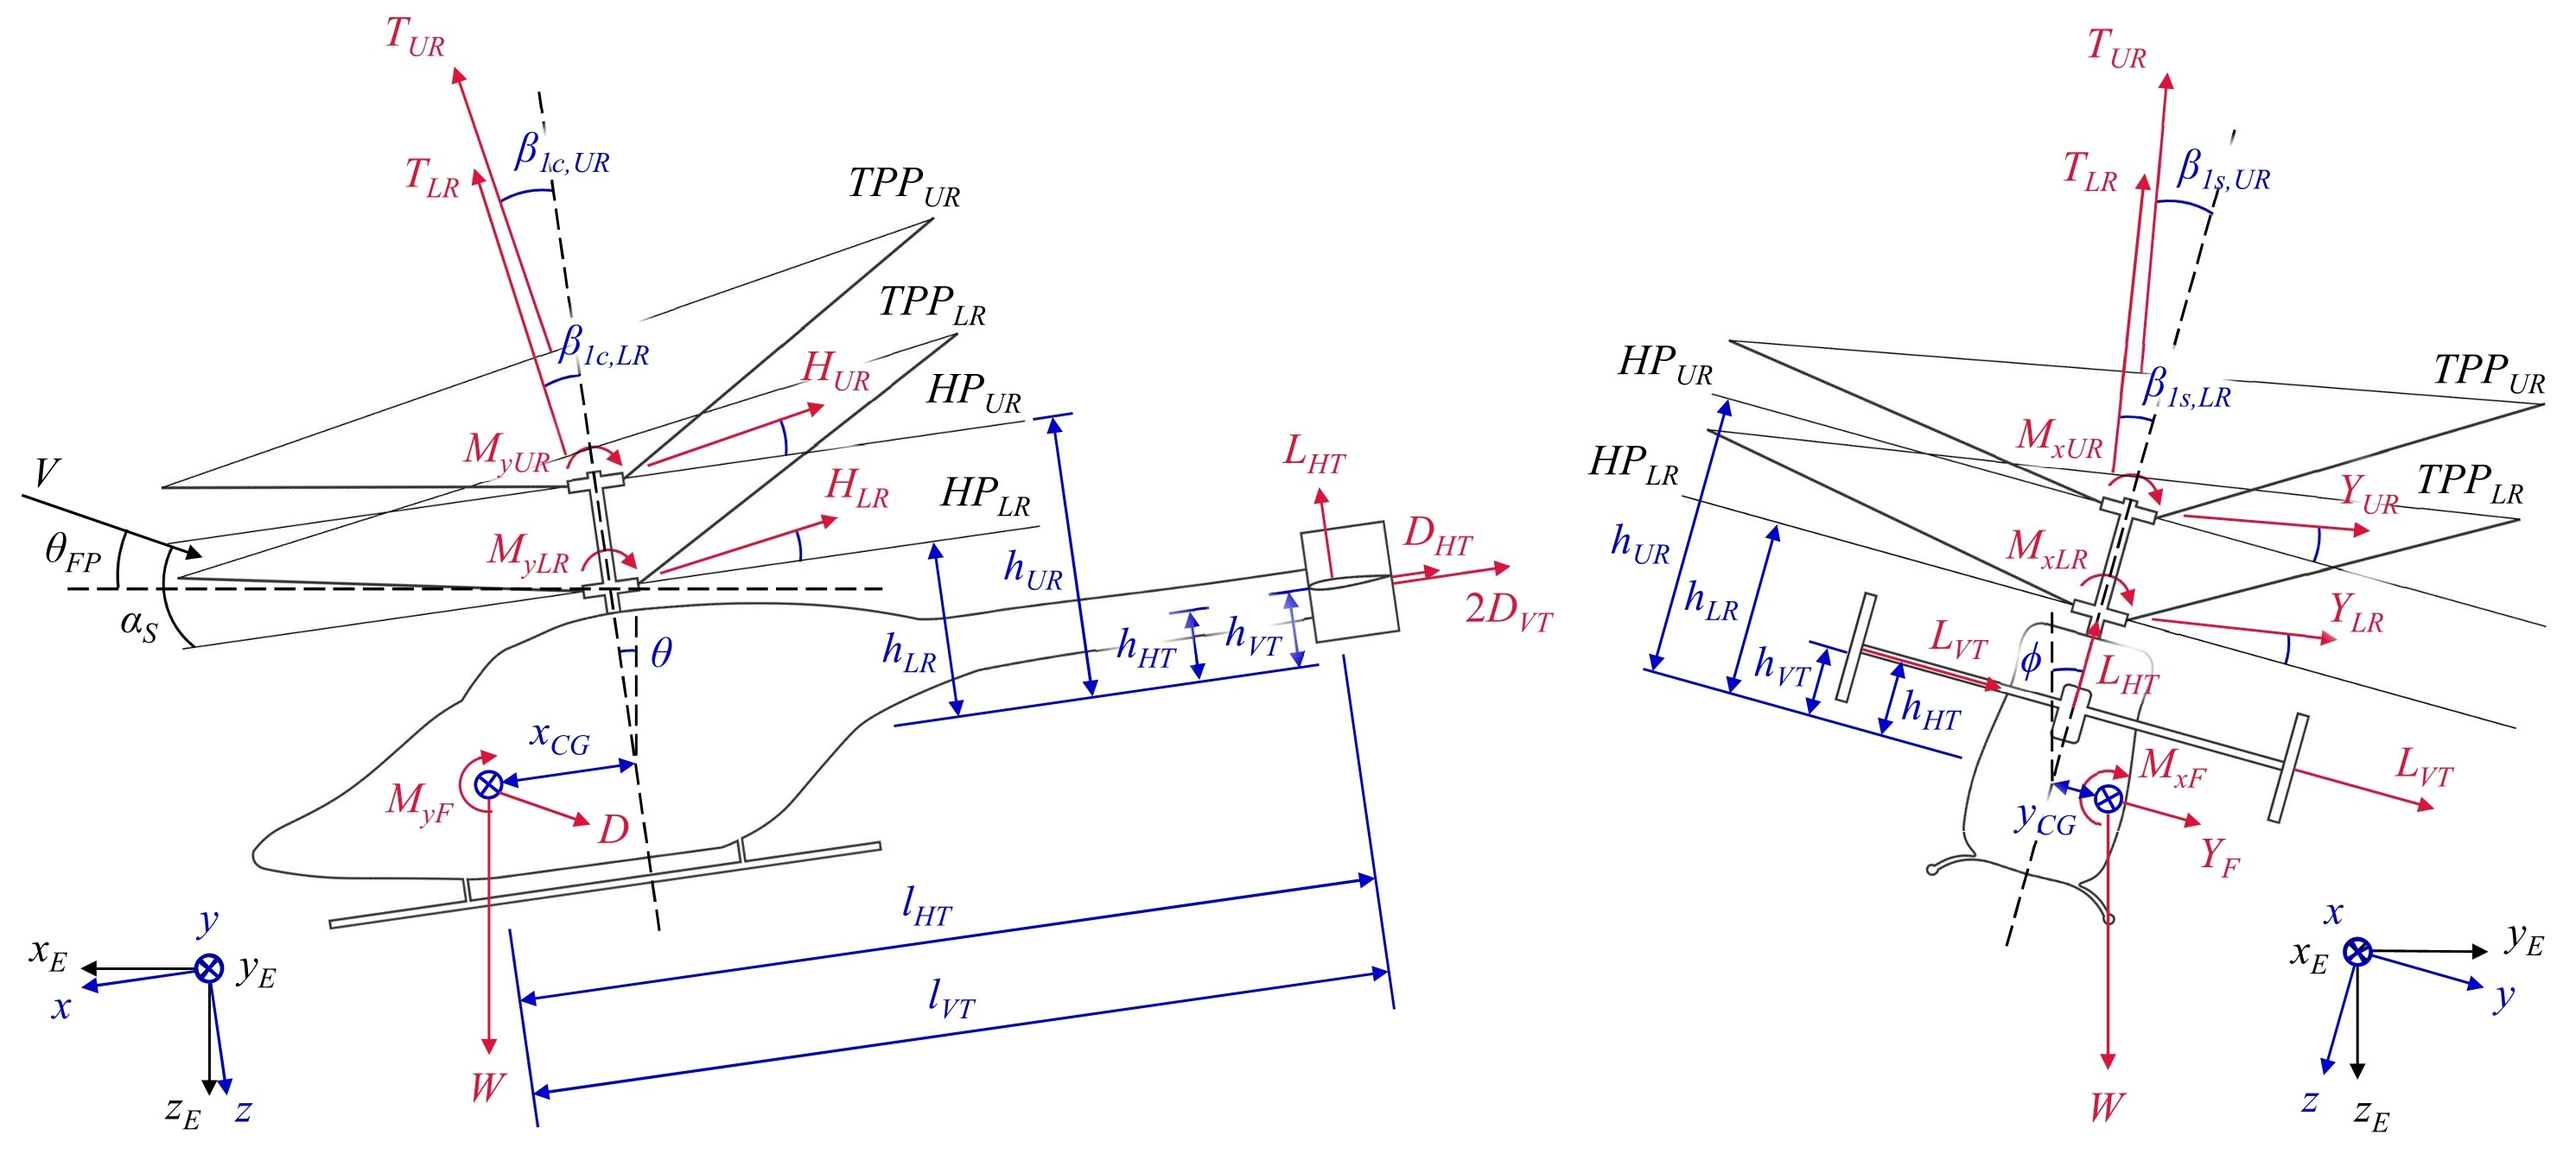
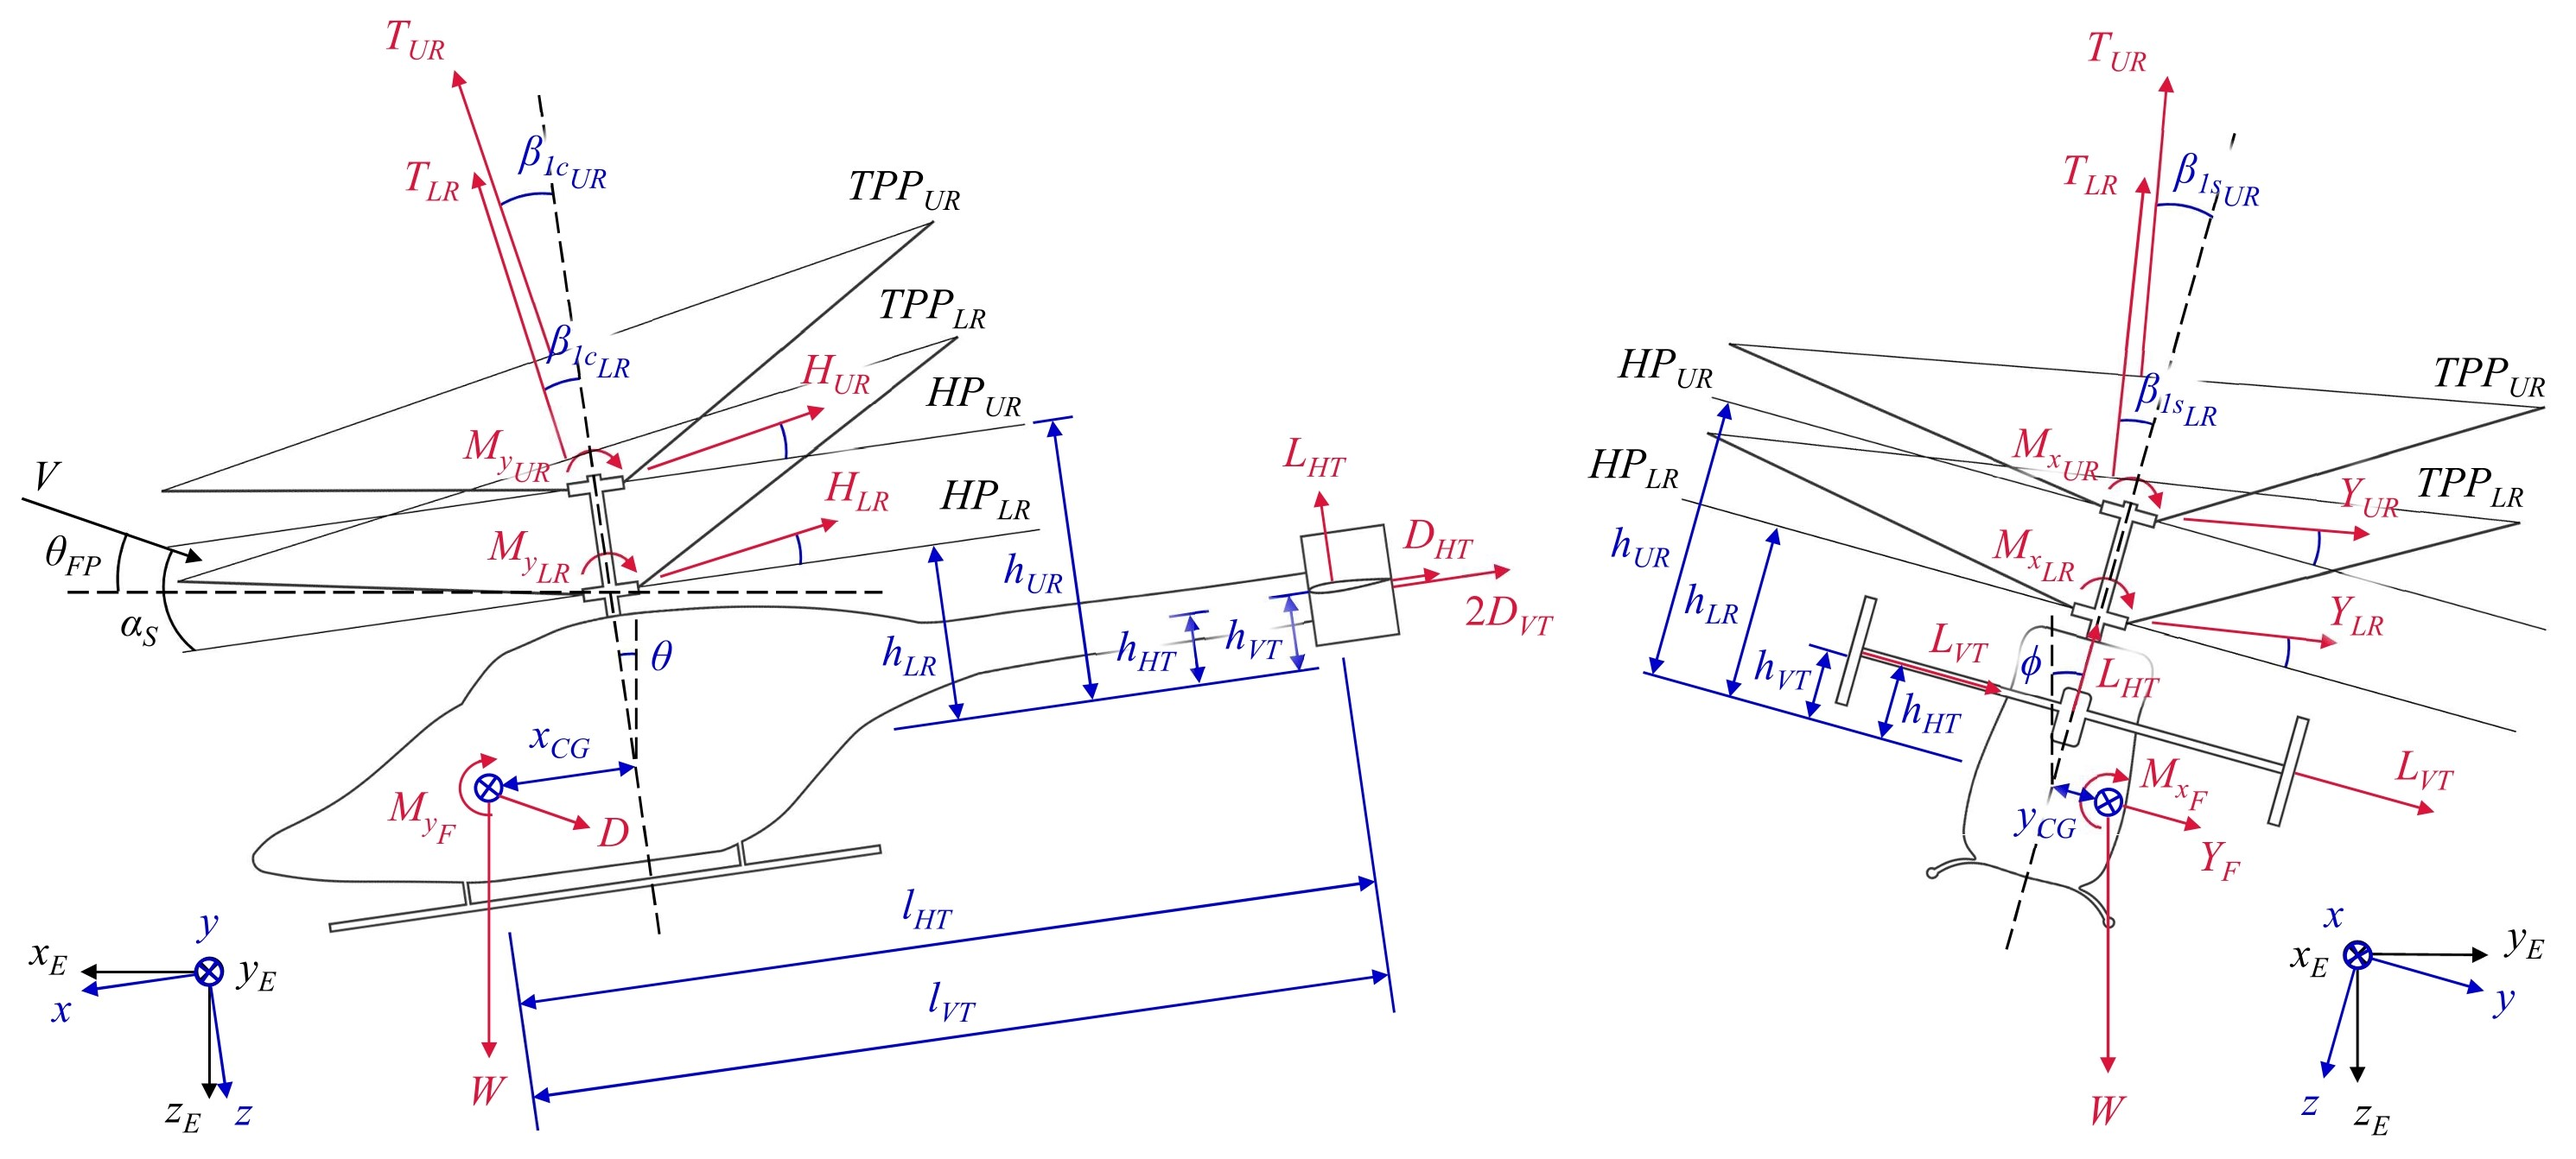
File Management
- More folders for Alex

diff --git a/HER05/01 - Mathematical Modeling/FM.m b/HER05/01 - Mathematical Modeling/FM.m
@@ -180,7 +180,7 @@ if u == 0
 
     else      % 2.2 Climb
 
-        T_UR = 0;
+        T_UR = 1;
 
     end
 

diff --git a/HER05/03 - Static Stability/README.md b/HER05/03 - Static Stability/README.md
@@ -1,0 +1,1 @@
+Flight Mechanics, Performance & Control

diff --git a/HER05/04 - Dynamic Stability/README.md b/HER05/04 - Dynamic Stability/README.md
@@ -1,0 +1,1 @@
+Flight Mechanics, Performance & Control

diff --git a/HER05/05 - Control Systems/README.md b/HER05/05 - Control Systems/README.md
@@ -1,0 +1,1 @@
+Flight Mechanics, Performance & Control
